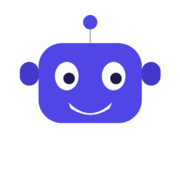
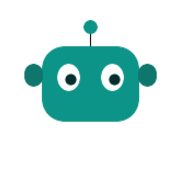
feat(theme): light theme follows Pulse too — teal accent, white canvas, Pulse type
- Accent is Pulse teal (#0D9488, hover #0F766E) in light as well as dark: the
  indigo family and `brand` resolve to teal in both themes, so every button,
  link, tint, focus ring and sidebar highlight matches Pulse.
- App canvas is white (new `bg-canvas`, near-black in dark); cards stay white
  with gray-200 borders and Pulse's card shadow; active nav is teal-on-tint.
- Fonts: Instrument Serif (font-serif) and IBM Plex Mono (font-mono) loaded
  alongside Inter, as Pulse uses them.
- Sign-in page is near-black + teal in both themes, as Pulse's landing is: the
  root carries `dark`, so the feature cards and footer render dark too.
- Logo, favicon, apple-touch icon and theme-color are teal.

Changed region(s): [[0.0833, 0.0833, 0.9167, 0.6944]]

diff --git a/tailwind.config.js b/tailwind.config.js
@@ -17,11 +17,13 @@ import plugin from 'tailwindcss/plugin';
 // Mid shades (300–600) are left alone: they are the accent colours themselves
 // and read on both backgrounds — except for the accent family, below.
 //
-// The dark theme follows Pulse: a neutral near-black page, dark-gray cards with
-// thin borders, and teal as the accent. Indigo is the accent in every page's
-// classes, so the whole indigo family (and `brand`, which is indigo) is a set of
-// variables: indigo in light, teal in dark. Violet and purple stay as they are —
-// they carry status meaning in badges, not the accent.
+// Both themes follow Pulse (DoAide's shared theme). Light: a white canvas,
+// white cards with gray-200 borders and a soft shadow, Tailwind grays for text.
+// Dark: a neutral near-black canvas, dark-gray cards with thin borders. The
+// accent is Pulse teal in both. Pages still write `indigo-*` for the accent, so
+// the whole indigo family (and `brand`) is a set of variables that resolve to
+// teal — light tints in light, dark tints in dark. Violet and purple stay as
+// they are: they carry status meaning in badges, not the accent.
 const hex = (h) => {
   const n = parseInt(h.slice(1), 16);
   return `${(n >> 16) & 255} ${(n >> 8) & 255} ${n & 255}`;
@@ -38,7 +40,7 @@ const DARK_GRAY = {
 // Card surface (what `bg-white` becomes): a step above the page.
 const SURFACE = '#141417';
 const ACCENT = 'indigo';
-const DARK_ACCENT = 'teal';
+const ACCENT_HUE = 'teal';
 const ACCENT_SHADES = [50, 100, 200, 300, 400, 500, 600, 700, 800, 900, 950];
 const TINT_FAMILIES = [
   'red', 'orange', 'amber', 'yellow', 'lime', 'green', 'emerald', 'teal', 'cyan',
@@ -62,27 +64,30 @@ for (const s of GRAY_SHADES) {
   darkVars[`--c-gray-${s}`] = hex(DARK_GRAY[s]);
 }
 for (const f of TINT_FAMILIES) {
-  const mid = defaultColors[f === ACCENT ? DARK_ACCENT : f][500];
+  const mid = defaultColors[f === ACCENT ? ACCENT_HUE : f][500];
   // Mix the family's 500 into the dark surface: a solid colour (not alpha) so
   // `bg-indigo-50/60` style opacity modifiers still compose.
   const mix = (a, b, t) =>
     hex(a).split(' ').map((c, i) => Math.round(c * (1 - t) + hex(b).split(' ')[i] * t)).join(' ');
-  for (const s of TINT_SHADES) lightVars[`--c-${f}-${s}`] = hex(defaultColors[f][s]);
+  for (const s of TINT_SHADES) lightVars[`--c-${f}-${s}`] = hex(defaultColors[f === ACCENT ? ACCENT_HUE : f][s]);
   darkVars[`--c-${f}-50`] = mix(DARK_GRAY[100], mid, 0.14);
   darkVars[`--c-${f}-100`] = mix(DARK_GRAY[100], mid, 0.24);
   darkVars[`--c-${f}-200`] = mix(DARK_GRAY[200], mid, 0.32);
 }
 for (const s of ACCENT_SHADES.filter((s) => !TINT_SHADES.includes(s))) {
-  lightVars[`--c-${ACCENT}-${s}`] = hex(defaultColors[ACCENT][s]);
-  darkVars[`--c-${ACCENT}-${s}`] = hex(defaultColors[DARK_ACCENT][s]);
+  lightVars[`--c-${ACCENT}-${s}`] = hex(defaultColors[ACCENT_HUE][s]);
+  darkVars[`--c-${ACCENT}-${s}`] = hex(defaultColors[ACCENT_HUE][s]);
 }
+
+lightVars['--c-canvas'] = hex('#ffffff');
+darkVars['--c-canvas'] = hex(DARK_GRAY[50]);
 
 const darkOverrides = {};
 for (const f of TINT_FAMILIES) {
   for (const [from, to] of Object.entries(DEEP_TEXT)) {
     const sel = `text-${f}-${from}`;
     darkOverrides[`.dark .${sel}, .dark .hover\\:${sel}:hover`] = {
-      color: defaultColors[f === ACCENT ? DARK_ACCENT : f][to],
+      color: defaultColors[f === ACCENT ? ACCENT_HUE : f][to],
     };
   }
 }
@@ -90,7 +95,7 @@ for (const f of TINT_FAMILIES) {
 // uses for its highlights; teal-600 itself is a button colour, dim as text.
 for (const s of [500, 600]) {
   const sel = `text-${ACCENT}-${s}`;
-  darkOverrides[`.dark .${sel}, .dark .hover\\:${sel}:hover`] = { color: defaultColors[DARK_ACCENT][400] };
+  darkOverrides[`.dark .${sel}, .dark .hover\\:${sel}:hover`] = { color: defaultColors[ACCENT_HUE][400] };
 }
 // Surfaces: `white` stays white for text on accent buttons; only white
 // *backgrounds* and borders become the dark card surface.
@@ -121,11 +126,19 @@ export default {
     extend: {
       colors: {
         ...colors,
-        // Same as the accent: indigo in light, teal in dark.
+        // Same as the accent.
         brand: colors[ACCENT],
+        // The page behind everything: white in light, near-black in dark.
+        canvas: v('canvas'),
+      },
+      fontFamily: {
+        // Pulse's type: Instrument Serif for display figures, IBM Plex Mono
+        // for eyebrows and data labels.
+        serif: ['"Instrument Serif"', 'Georgia', 'serif'],
+        mono: ['"IBM Plex Mono"', 'ui-monospace', 'SFMono-Regular', 'monospace'],
       },
       boxShadow: {
-        card: '0 1px 2px 0 rgba(16, 24, 40, 0.04), 0 1px 3px 0 rgba(16, 24, 40, 0.06)',
+        card: '0 1px 3px rgba(0, 0, 0, 0.08), 0 1px 2px rgba(0, 0, 0, 0.06)',
       },
     },
   },

diff --git a/src/pages/Login.jsx b/src/pages/Login.jsx
@@ -26,10 +26,10 @@ import { useAuth } from '../context/AuthContext';
 import { cn } from '../lib/utils';
 
 // The public face of Prospect: a Pulse-style landing page with sign-in and
-// sign-up embedded in the hero. The hero wears Pulse's palette — near-black,
-// thin-bordered dark cards, teal accent — in both themes. It uses white/alpha,
-// fixed hex and teal 300–600 only, never the gray scale or the 50–200 tints,
-// which flip with the theme. Everything below the hero follows the theme.
+// sign-up embedded in the hero. Like Pulse's, the whole page is near-black and
+// teal in both themes: the root carries the `dark` class, so the themed gray
+// scale and tints (tailwind.config.js) resolve to their dark values inside it
+// whatever the app theme is. The theme switch still sets the app's theme.
 
 const HERO_BG = '#0A0A0B';
 
@@ -337,7 +337,7 @@ export default function Login({ initialMode = 'signin' }) {
   }
 
   return (
-    <div className="min-h-screen bg-gray-50">
+    <div className="dark min-h-screen bg-gray-50" style={{ colorScheme: 'dark' }}>
       {/* Hero — Pulse near-black and teal in both themes */}
       <section className="relative overflow-hidden text-[#E4E4E7]" style={{ backgroundColor: HERO_BG }}>
         <div
@@ -408,10 +408,10 @@ export default function Login({ initialMode = 'signin' }) {
         </div>
       </section>
 
-      {/* Features — follows the theme */}
+      {/* Features — dark-gray cards with thin borders, as on Pulse */}
       <section aria-labelledby="features-heading" className="mx-auto max-w-6xl px-4 py-16 sm:px-6 lg:px-8 lg:py-20">
         <div className="mx-auto max-w-2xl text-center">
-          <p className="text-sm font-semibold uppercase tracking-wider text-indigo-600">Everything in one place</p>
+          <p className="font-mono text-xs uppercase tracking-[0.16em] text-indigo-600">Everything in one place</p>
           <h2 id="features-heading" className="mt-2 text-2xl font-bold tracking-tight text-gray-900 sm:text-3xl">
             From first touch to signed client
           </h2>

diff --git a/index.html b/index.html
@@ -6,7 +6,7 @@
     <link rel="icon" type="image/svg+xml" href="/favicon.svg" />
     <link rel="icon" type="image/x-icon" href="/favicon.ico" sizes="16x16 32x32 48x48" />
     <link rel="apple-touch-icon" href="/apple-touch-icon.png" />
-    <meta name="theme-color" content="#4338CA" />
+    <meta name="theme-color" content="#0D9488" />
     <meta name="apple-mobile-web-app-title" content="DoAide Prospect" />
     <meta property="og:site_name" content="DoAide" />
     <meta property="og:title" content="DoAide Prospect — B2B Lead-to-Client Platform" />
@@ -15,7 +15,7 @@
     <title>DoAide Prospect — B2B Lead-to-Client Platform</title>
     <link rel="preconnect" href="https://fonts.googleapis.com" />
     <link rel="preconnect" href="https://fonts.gstatic.com" crossorigin />
-    <link href="https://fonts.googleapis.com/css2?family=Inter:wght@300;400;500;600;700&display=swap" rel="stylesheet" />
+    <link href="https://fonts.googleapis.com/css2?family=IBM+Plex+Mono:wght@400;500;600&family=Instrument+Serif:ital@0;1&family=Inter:wght@300;400;500;600;700&display=swap" rel="stylesheet" />
     <!-- Applies the saved theme before first paint (mirrors src/lib/theme.js).
          External, not inline: the CSP is script-src 'self'. -->
     <script src="/theme-init.js"></script>

diff --git a/src/components/Logo.jsx b/src/components/Logo.jsx
@@ -1,17 +1,16 @@
 import { cn } from '../lib/utils';
 
-// Prospect's accent. Every DoAide product draws the same robot mark in its own
-// colour (Pulse teal, Jobs gold); the shape and the wordmark are what's shared.
-export const BRAND_ACCENT = '#4F46E5';
-// Eyes and smile are drawn light so they read against the indigo face; black
-// eyes on indigo vanished at sidebar size. The pupils carry the deep ink.
+// Prospect's accent: Pulse teal, since Prospect wears the shared DoAide theme.
+export const BRAND_ACCENT = '#0D9488';
+// Eyes and smile are drawn light so they read against the face at sidebar
+// size. The pupils carry the deep ink.
 const EYE = '#FFFFFF';
-const PUPIL = '#1E1B4B';
-// The sign-in hero's accent: Pulse teal, in both themes.
-export const HERO_ACCENT = '#0D9488';
+const PUPIL = '#042F2E';
+// The sign-in hero's accent (it is dark in both themes).
+export const HERO_ACCENT = BRAND_ACCENT;
 
 /**
- * The DoAide robot mark, in Prospect indigo. Rendered inline so it stays crisp
+ * The DoAide robot mark, in Pulse teal. Rendered inline so it stays crisp
  * at any size.
  */
 export function LogoMark({ className, size = 32, color = BRAND_ACCENT, title = 'DoAide Prospect' }) {

diff --git a/src/components/DoAideBrand.test.jsx b/src/components/DoAideBrand.test.jsx
@@ -4,7 +4,7 @@ import Logo, { BRAND_ACCENT } from './Logo';
 import { DoAideBadge, DoAideFooter } from './DoAideBrand';
 
 describe('DoAide branding', () => {
-  it('draws the shared robot mark in Prospect indigo, with the DoAide | Prospect wordmark', () => {
+  it('draws the shared robot mark in Pulse teal, with the DoAide | Prospect wordmark', () => {
     const { container } = render(<Logo />);
     expect(screen.getByRole('img', { name: 'DoAide Prospect' })).toBeInTheDocument();
     expect(container.querySelector('rect[width="22"]')).toHaveAttribute('fill', BRAND_ACCENT);
@@ -12,7 +12,7 @@ describe('DoAide branding', () => {
     expect(screen.getByText('Prospect').tagName).toBe('EM');
   });
 
-  it('draws the eyes light so they show against the indigo face', () => {
+  it('draws the eyes light so they show against the teal face', () => {
     const { container } = render(<Logo />);
     const eyes = container.querySelectorAll('[data-part="eye"]');
     expect(eyes).toHaveLength(2);

diff --git a/src/pages/Dashboard.jsx b/src/pages/Dashboard.jsx
@@ -500,7 +500,7 @@ class DashboardErrorBoundary extends React.Component {
 
 function CampaignCTA({ navigate }) {
   return (
-    <div className="group relative overflow-hidden rounded-2xl border border-indigo-100 bg-gradient-to-r from-indigo-600 via-indigo-500 to-purple-600 px-8 py-6 shadow-sm transition-shadow hover:shadow-lg">
+    <div className="group relative overflow-hidden rounded-2xl border border-indigo-100 bg-gradient-to-r from-indigo-600 via-indigo-600 to-indigo-700 px-8 py-6 shadow-sm transition-shadow hover:shadow-lg">
       <div className="pointer-events-none absolute -right-8 -top-8 h-40 w-40 rounded-full bg-white/10" />
       <div className="pointer-events-none absolute -bottom-6 right-16 h-24 w-24 rounded-full bg-white/5" />
       <div className="relative flex flex-col gap-4 sm:flex-row sm:items-center sm:justify-between">

diff --git a/src/components/Layout.jsx b/src/components/Layout.jsx
@@ -135,7 +135,7 @@ export default function Layout({ children }) {
         className={cn(
           'group relative flex items-center gap-3 rounded-lg px-3 py-2 text-sm font-medium transition-colors',
           isActive
-            ? 'bg-indigo-50 text-indigo-700'
+            ? 'bg-indigo-50 font-medium text-indigo-600'
             : 'text-gray-600 hover:bg-gray-100 hover:text-gray-900'
         )}
       >
@@ -255,7 +255,7 @@ export default function Layout({ children }) {
   );
 
   return (
-    <div className="min-h-screen bg-gray-50">
+    <div className="min-h-screen bg-canvas">
       {/* Mobile top bar */}
       <header className="fixed inset-x-0 top-0 z-30 flex h-14 items-center gap-3 border-b border-gray-200 bg-white/90 px-4 text-gray-900 backdrop-blur lg:hidden">
         <button

diff --git a/src/index.css b/src/index.css
@@ -3,13 +3,14 @@
 @tailwind utilities;
 
 :root {
-  --brand: #4338ca;
-  --brand-hover: #3730a3;
+  /* Pulse teal (tailwind.config.js maps the indigo accent to it). */
+  --brand: #0d9488;
+  --brand-hover: #0f766e;
 }
 
 /* Page and text colours follow the themed gray scale (see tailwind.config.js). */
 html {
-  background-color: rgb(var(--c-gray-50));
+  background-color: rgb(var(--c-canvas));
   color-scheme: light;
 }
 html.dark {
@@ -85,7 +86,7 @@ body {
 
 /* Branded text selection */
 ::selection {
-  background-color: rgba(67, 56, 202, 0.14);
+  background-color: rgba(13, 148, 136, 0.15);
 }
 
 /* Refined, unobtrusive scrollbars */

diff --git a/CLAUDE.md b/CLAUDE.md
@@ -48,7 +48,7 @@ Build → zip `dist/` → create-deployment → upload → start-deployment.
 - New pages need: route, sidebar nav entry, command palette entry
 - Use existing component patterns (see `Companies.jsx` for table pattern, `CompanyDetail` for tabs)
 - Mobile responsive (test at 375px)
-- Accent color: indigo-based palette
+- Accent color: Pulse teal (written as `indigo-*`, see Theming)
 
 ## Platform credentials are rotated from the UI, and the copy has to be careful
 
@@ -82,12 +82,16 @@ variables that flip under `.dark`, and lifts deep text shades (700–900).
 Consequences: `bg-gray-900` is not "always dark" (it's overridden to a dark
 chip); a surface that must stay dark in both themes (the sign-in hero) uses
 fixed hex + `white/…` alphas, never grays.
-The dark theme is Pulse's palette, not a dark indigo: neutral near-black page
-(`#0a0a0b`), `#141417` cards with thin `gray-200` borders and no shadow, and
-**teal** as the accent — the whole `indigo` family (and `brand`) is variables,
-indigo in light and teal in dark, so keep writing `indigo-*` for the accent.
-The sign-in hero is near-black + teal in both themes, with Pulse's floating,
-blinking robot (`HeroRobot` in `Login.jsx`, keyframes in `index.css`). `public/theme-init.js` applies the
+Both themes follow Pulse (DoAide's shared theme). Light: white canvas
+(`bg-canvas`), white cards with `gray-200` borders, Tailwind grays for text.
+Dark: neutral near-black canvas, `#141417` cards with thin borders, no shadow.
+The accent is Pulse **teal** in both — the whole `indigo` family (and `brand`)
+is variables that resolve to teal, so keep writing `indigo-*` for the accent.
+The sign-in page is near-black + teal in both themes, as Pulse's is: its root
+carries the `dark` class, so the themed classes inside resolve dark. It has
+Pulse's floating, blinking robot (`HeroRobot` in `Login.jsx`, keyframes in
+`index.css`). Fonts: Inter, Instrument Serif (`font-serif`), IBM Plex Mono
+(`font-mono`). `public/theme-init.js` applies the
 theme before paint — external because the CSP is `script-src 'self'`.
 
 ## Key Patterns
